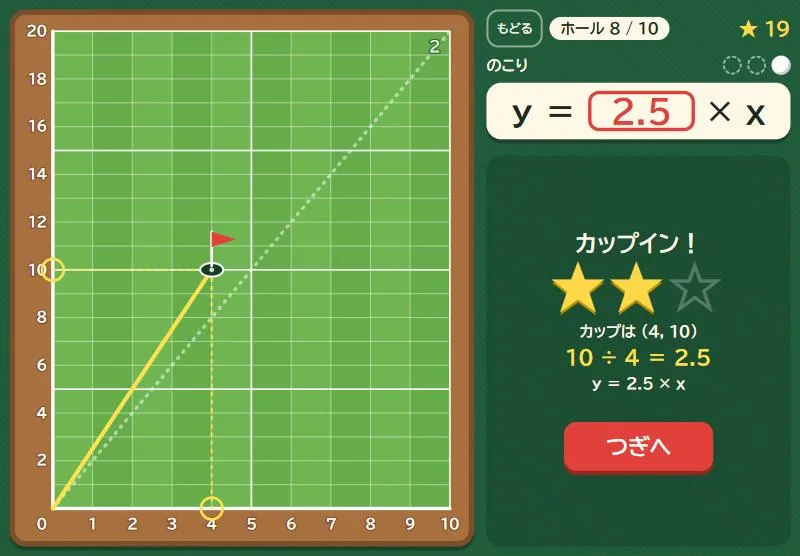
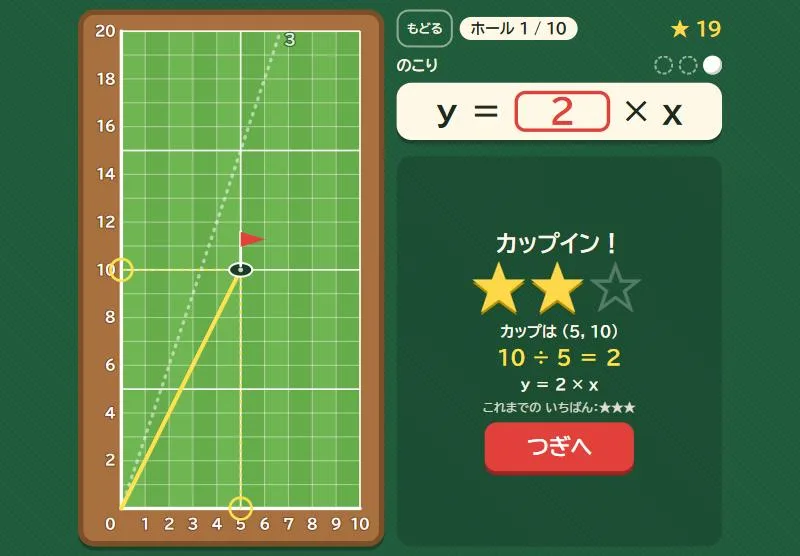
グラフ・ゴルフの写真を、目もりをそろえた画面に差し替え

diff --git a/index.html b/index.html
@@ -326,7 +326,7 @@ footer .legend span{display:inline-flex;align-items:center;gap:6px}
     syncFilters(); render();
   }
 
-  fetch("data/kyouzai.json?v=6", { cache: "no-cache" })
+  fetch("data/kyouzai.json?v=7", { cache: "no-cache" })
     .then((r) => r.json())
     .then((data) => {
       items = (data.items || []).map((it, n) => ({ subjects: [], grades: [], ...it, _no: n + 1 }));
